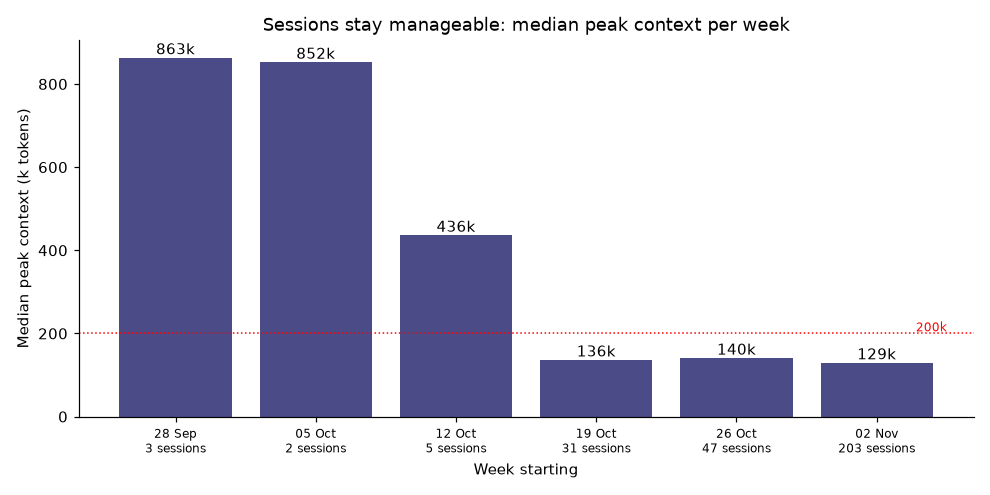
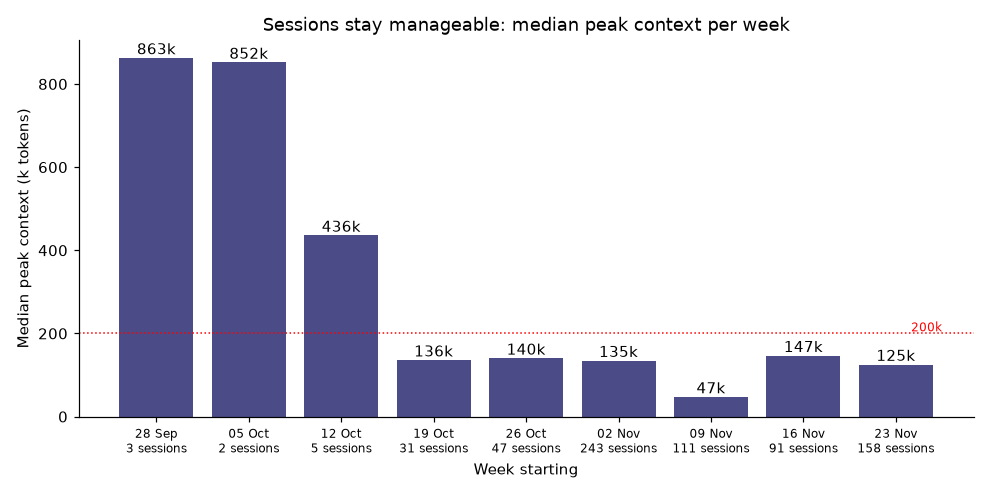
TASK-450: refresh RESULTS.md (691 sessions, 16 projects, to 2026-11-26)

Changed region(s): [[0.1212, 0.0909, 0.6667, 0.9394], [0.6364, 0.697, 0.9394, 0.9394], [0.9091, 0.6364, 0.9697, 0.6667]]

diff --git a/docs/RESULTS.md b/docs/RESULTS.md
@@ -1,24 +1,24 @@
 # Results from using STEM on itself
 
-Three curves from the author's own work. They are **dogfooding data, not a benchmark**: 291 Claude Code sessions in 14 projects, one user, 2026-10-03 to 2026-11-07, no control group without STEM. Numbers only; no project names or session content. A first controlled comparison (experiment G2: 24 runs, Codex, small single-session fixture tasks) ran on 2026-11-06; see [below](#controlled-comparison-g2-small-tasks-only).
+Three curves from the author's own work. They are **dogfooding data, not a benchmark**: 691 Claude Code sessions in 16 projects, one user, 2026-10-03 to 2026-11-26, no control group without STEM. Numbers only; no project names or session content. A first controlled comparison (experiment G2: 24 runs, Codex, small single-session fixture tasks) ran on 2026-11-06; see [below](#controlled-comparison-g2-small-tasks-only).
 
 ## 1. Traceability: commits that carry a task ID
 
 ![Share of commits with a task ID per week](assets/results-traceability.png)
 
-Between 56 % and 91 % of all commits reference a backlog task, in every week; the latest week is the highest (91 %), after a dip to 56 % in mid-October. A commit with a task ID can be traced to a goal, a plan and evidence lines. Time windows tie commits to sessions, so the figures are approximate.
+Between 56 % and 95 % of all commits reference a backlog task, in every week; since early November it stays at 91 % to 95 % (latest full week 95 %), after a dip to 56 % in mid-October. A commit with a task ID can be traced to a goal, a plan and evidence lines. Time windows tie commits to sessions, so the figures are approximate.
 
 ## 2. The rulebook grows, the always-loaded part does not
 
 ![AGENTS.md vs OPERATING_MODEL.md size per release](assets/results-always-loaded.png)
 
-From v0.1.0 to v1.14.0 the rules file doubled (25 kB to 50 kB), while `AGENTS.md`, the only file loaded in every session, grew from 2.8 kB to 5.5 kB (roughly 1.5k tokens) and has stayed there since late October. Rules are loaded by ID when their trigger applies. Sizes are taken from the release tags.
+From v0.1.0 to v1.20.1 the rules file doubled (25 kB to 52 kB), while `AGENTS.md`, the only file loaded in every session, grew from 2.8 kB to 6.8 kB (roughly 1.9k tokens); it had stood at 5.5 kB since late October and grew again with later releases. Rules are loaded by ID when their trigger applies. Sizes are taken from the release tags.
 
 ## 3. Sessions stay manageable
 
 ![Median peak context per week](assets/results-session-size.png)
 
-The median peak context of a session fell from several hundred thousand tokens in the first weeks to 129k to 140k since 2026-10-19 (the earlier weeks rest on 2 to 5 sessions each). The handoff rule (start a new session by about 100k) and the context notice are the intended cause, but this data cannot prove it; session habits changed too.
+The median peak context of a session fell from several hundred thousand tokens in the first weeks to 125k to 147k per week since 2026-10-19, with one outlier week at 47k (week of 2026-11-09, many short sessions); the earlier weeks rest on 2 to 5 sessions each. The handoff rule (start a new session by about 100k) and the context notice are the intended cause, but this data cannot prove it; session habits changed too.
 
 ## What these curves do not show
 
